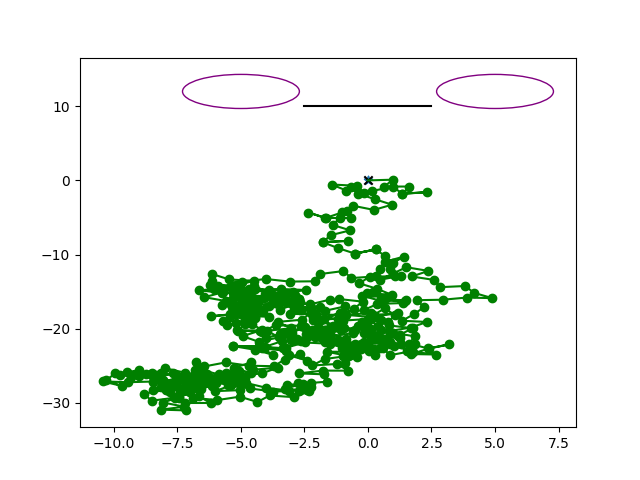
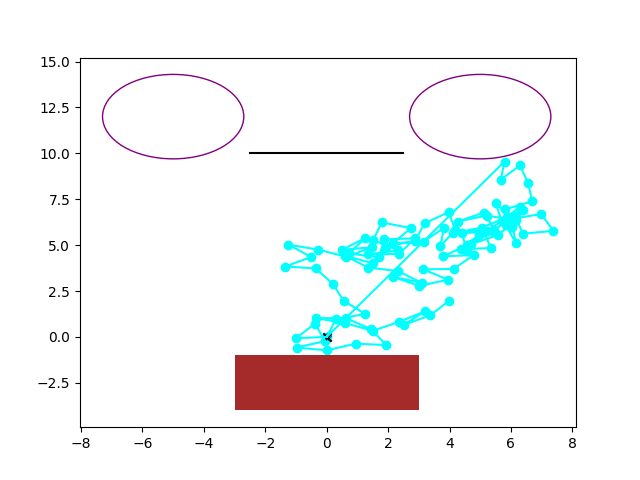
new obstacle: mud.py

diff --git a/Code/simulation.py b/Code/simulation.py
@@ -14,6 +14,7 @@ from typing import Tuple
 from walker import Walker, pull_push
 from barrier import Barrier
 from portal import Portal
+from mud import Mud
 import helper_functions
 import graph
 
@@ -22,7 +23,7 @@ Coordinates = Tuple[float,float]
 # The radius we check if a walker escapes
 ESCAPE_RAD = 10
 # The path prefix to any file I save
-DESTINATION_PATH = "../Results/"
+DESTINATION_PATH = "./Results/"
 
 class Simulation:
     """
@@ -44,6 +45,7 @@ class Simulation:
         self.__barriers = []
         self.__portals = []
         self.__iteration = 0
+        self.__mudspots = []
 
     def add_walker(self, walker: Walker) -> None:
         """
@@ -68,29 +70,43 @@ class Simulation:
         """
         self.__barriers.append(barrier)
 
+    def add_mud(self, mud: Mud) -> None:
+        """
+        Adds mud to the simulation
+        :param mus: The mud to add
+        """
+        self.__mudspots.append(mud)
+
     def step(self) -> int:
         """
         Preforms one step of the entire simulation.
         Returns the number of the step preformed.
         """
         for index, walker in enumerate(self.__walkers):
-            current_place = walker.get_location()
+            current_place = walker.location
             self.__location_log[index].append(current_place)
             next_place = walker.next_location()
             for barrier in self.__barriers:
                 while barrier.intersects(current_place, next_place):
                     # print(f"hit barrier on {self.__iteration}th iteration")
                     next_place = walker.next_location()
+            for mud in self.__mudspots:
+                if mud.point_in_area(current_place):
+                    next_place = (current_place[0] +
+                                  (next_place[0] - current_place[0]) * mud.get_lag(),
+                                  current_place[1] +
+                                  (next_place[1] - current_place[1]) * mud.get_lag())
             for portal in self.__portals:
                 if portal.inbounds(next_place):
                     # print(f"passed through portal on {self.__iteration}th iteration")
-                    next_place = portal.get_end()
+                    next_place = portal.endpoint
             walker.jump(next_place)
 
         self.__iteration += 1
         return self.__iteration
 
-    def get_log(self):
+    @property
+    def log(self):
         """
         returns the location log of a specific simulation
         """
@@ -131,15 +147,15 @@ class Simulation:
               or step < n + 1:
             step = stunt_double.step()
             for index, _ in enumerate(self.__walkers):
-                if stunt_double.get_log()[index][-1][0] ** 2 + \
-                      stunt_double.get_log()[index][-1][1] ** 2 > ESCAPE_RAD ** 2 \
+                if stunt_double.log[index][-1][0] ** 2 + \
+                      stunt_double.log[index][-1][1] ** 2 > ESCAPE_RAD ** 2 \
                     and info_dict[index]["escape"] is None:
                     info_dict[index]["escape"] = step
 
         # Runs through the locations the simulation passed through and gets the desired answers
         for index, _ in enumerate(self.__walkers):
-            self.__location_log[index].append(self.__walkers[index].get_location())
-            locations = list(stunt_double.get_log()[index][:n+1])
+            self.__location_log[index].append(self.__walkers[index].location)
+            locations = list(stunt_double.log[index][:n+1])
             info_dict[index]["distance_0"] = \
                 (locations[-1][0] ** 2 + locations[-1][1] ** 2) ** (1/2)
             x_values = [x[0] for x in locations]
@@ -218,7 +234,7 @@ class Simulation:
         # Saves the data constructed to the desired path
         helper_functions.save_to_json(data_for_all_walkers, f"{DESTINATION_PATH}{file_name}")
 
-    def plot_simulation(self, n: int, file_name: str = "walkerplot") -> None:
+    def plot_simulation(self, n: int, file_name: str = f"{DESTINATION_PATH}walkerplot") -> None:
         """
         Runs the simulation independently of the simulation_average method.
         Saves to the destination folder graphs of the locations visited by the walker
@@ -230,10 +246,11 @@ class Simulation:
         simulation_results = self.run_simulation(n,n)
         locations_dict = {index: simulation_results[index]["location_list"]
                            for index in simulation_results}
-        barriers = [barrier.get_points() for barrier in self.__barriers]
-        portals = [(portal.get_center(), portal.get_radius(), portal.get_end()) \
+        barriers = [barrier.points for barrier in self.__barriers]
+        portals = [(portal.center, portal.radius, portal.endpoint) \
                     for portal in self.__portals]
+        mudspots = [mud.properties for mud in self.__mudspots]
         for index, locations in locations_dict.items():
-            color = self.__walkers[index].get_color()
-            graph.show_walker_way(locations, barriers, portals,
-                                   DESTINATION_PATH+file_name+str(index), color)
+            color = self.__walkers[index].color
+            graph.show_walker_way(locations, (barriers, portals, mudspots),
+                                   file_name+str(index), color)

diff --git a/Code/graph.py b/Code/graph.py
@@ -14,26 +14,38 @@ import matplotlib.patches as patches
 
 Coordinates = Tuple[float,float]
 
-DESTINATION_PATH = "../Results/"
+DESTINATION_PATH = "./Results/"
 
 
-def show_walker_way(movement_log: list[Coordinates], barriers: list[tuple[Coordinates]], portals: list,
+def show_walker_way(movement_log: list[Coordinates], obstacles: Tuple,
                     file_to_save: str = f"{DESTINATION_PATH}scatterplot", color: str = "black") -> None:
     """
     A function that plots on a graph the path a waker went through.
     :param movement_log: a list containing ordered moves made by the walker
     :param file_to_save: the desired filepath in which to save the path taken by the walker
-    :param barriers: a list containing pairs of coordinates, between which each barrier is spread
-    :param portals: a list containing tuples of Coordinates (rep. centeres), floats (rep. radii) and Coordinates (rep. endpoints)
+    :param obstacles: tuple containing:
+                            A list containing pairs of coordinates, between which 
+                            each barrier is spread
+                            A list containing tuples of Coordinates (rep. centeres),
+                            floats (rep. radii) and Coordinates (rep. endpoints)
+                            A list containg bottom_left corners, widths and
+                            heights of mudspots
+    :param file_to_save: the name of the desired saving space for the plots
+    :param color: the color to trace the course of the walker
     """
     x = [i[0] for i in movement_log]
     y = [i[1] for i in movement_log]
+
+    barriers = obstacles[0]
+    portals = obstacles[1]
+    muds = obstacles[2]
 
     fig = plt.figure()
     ax = plt.axes()
 
     ax.scatter(x[1:], y[1:], color=color)
     ax.plot(x, y, color=color)
+
     for barrier in barriers:
         ax.plot([barrier[0][0],barrier[1][0]],[barrier[0][1],barrier[1][1]], color='black')
     endpoints_x = []
@@ -44,6 +56,11 @@ def show_walker_way(movement_log: list[Coordinates], barriers: list[tuple[Coordi
         endpoints_x.append(portal[2][0])
         endpoints_y.append(portal[2][1])
         ax.add_patch(circle)
+    for mud in muds:
+        rectangle = patches.Rectangle(*mud, facecolor="brown")
+        ax.add_patch(rectangle)
+
     ax.scatter(endpoints_x,endpoints_y, marker= "*")
     ax.scatter(0, 0, color='black', marker='x')
+    # fig.show()
     fig.savefig(file_to_save+".png")

diff --git a/Code/barrier.py b/Code/barrier.py
@@ -42,8 +42,8 @@ class Barrier:
         :param point_a: the first point.
         :param point_b: the second point.
         """
-        barrier_function = get_function(self.__point1,self.__point2)
-        line_function = get_function(point_a,point_b)
+        barrier_function = self.get_function(self.__point1,self.__point2)
+        line_function = self.get_function(point_a,point_b)
         if line_function[0] == barrier_function[0] or line_function == barrier_function:
             # line paralel to barrier
             return False
@@ -59,23 +59,24 @@ class Barrier:
         intersection_x = ((barrier_function[1] - line_function[1]) /
                            (line_function[0] - barrier_function[0]))
         return min(self.__point1[0],self.__point2[0]) <= intersection_x <= max(self.__point1[0],self.__point2[0])
-    
-    def get_points(self) -> tuple[Coordinates,Coordinates]:
+
+    @property
+    def points(self) -> tuple[Coordinates,Coordinates]:
         """
         returns the points between which a barrier is strung
         """
         return (self.__point1,self.__point2)
 
-
-def get_function(a, b) -> Tuple[float, float] | str:
-    """
-    recieves two points and returns a tuple containing the ratio between them and
-    the additional part to add to offset from the x axis as a tuple: (ratio, aditional)
-    :param a: the first point in the comparison
-    :param b: the second point in the comparison
-    """
-    if a[0] - b[0] == 0:
-        return "vertical"
-    ratio = (a[1] - b[1]) / (a[0] - b[0])
-    additional = a[1] - ratio * a[0]
-    return (ratio, additional)
+    @staticmethod
+    def get_function(a, b) -> Tuple[float, float] | str:
+        """
+        recieves two points and returns a tuple containing the ratio between them and
+        the additional part to add to offset from the x axis as a tuple: (ratio, aditional)
+        :param a: the first point in the comparison
+        :param b: the second point in the comparison
+        """
+        if a[0] - b[0] == 0:
+            return "vertical"
+        ratio = (a[1] - b[1]) / (a[0] - b[0])
+        additional = a[1] - ratio * a[0]
+        return (ratio, additional)

diff --git a/Code/mud.py b/Code/mud.py
@@ -1,0 +1,59 @@
+"""
+FILE : mud.py
+WRITER : Dori_Peleg , dori.plg , 207685306
+EXERCISE : intro2cs final_project 2024
+DESCRIPTION: A calss for mud objects within a simulation
+STUDENTS I DISCUSSED THE EXERCISE WITH:
+WEB PAGES I USED:
+NOTES: ...
+"""
+
+from typing import Tuple
+
+Coordinates = Tuple[float,float]
+
+SLOWDOWN = 0.6
+
+
+class Mud:
+    """
+    A class building the mud object in the random walker simulation
+    Mud pathces are rectangular areas where the movement of the walker is slowed down
+    """
+
+
+    def __init__(self, bottom_left: Coordinates, width: float, height: float) -> None:
+        """
+        initiates a new mudpatch object.
+        :param bottom_left: the mudpatch bottom left corner
+        :param width: the width of the mudpatch
+        :param height: the height of the mudpatch
+        """
+        self.__bottom_left = bottom_left
+        if width <= 0 or height <= 0:
+            raise ValueError("The width and height can only be positive")
+        self.__width = width
+        self.__height = height
+
+    def point_in_area(self, point: Coordinates) -> bool:
+        """
+        Checks wether a location is in the patch
+        :param point: the location to check
+        """
+        return (self.__bottom_left[0] <= point[0] <= (self.__bottom_left[0] + self.__width) and \
+                self.__bottom_left[1] <= point[1] <= (self.__bottom_left[1] + self.__height))
+
+    @property
+    def properties(self) -> Tuple[Coordinates, float, float]:
+        """
+        gets a tuple of the properties of the patch
+        (bottom_left, width, height)
+        """
+        return (self.__bottom_left, self.__width, self.__height)
+    
+    @staticmethod
+    def get_lag() -> float:
+        """
+        gets the slow down buffer of the mud patch
+        """
+        return SLOWDOWN

diff --git a/Code/walker.py b/Code/walker.py
@@ -111,23 +111,26 @@ class Walker:
             return True
         return False
 
-    def get_location(self) -> Coordinates:
+    @property
+    def location(self) -> Coordinates:
         """
         returns a Walker's location coordinates
         """
         return self.__location
 
-    def get_color(self) -> str:
+    @property
+    def color(self) -> str:
         """
         returns a walkers color, as a full name
         """
         return COLORS[self.__color]
 
-def get_move_dict() -> dict:
-    """
-    For UI reasons, returns the dictionary describing the walker class movement types
-    """
-    return MOVEMENTS
+    @staticmethod
+    def move_dict() -> dict:
+        """
+        For UI reasons, returns the dictionary describing the walker class movement types
+        """
+        return MOVEMENTS
 
 def pull_push(walkers: list[Walker], power: int = 1, gravity: bool = True) -> None:
     """

diff --git a/Code/main.py b/Code/main.py
@@ -8,9 +8,10 @@ WEB PAGES I USED:
 NOTES: ...
 """
 
-from walker import Walker, get_move_dict
+from walker import Walker
 from barrier import Barrier
 from portal import Portal
+from mud import Mud
 from simulation import Simulation
 
 
@@ -19,12 +20,12 @@ if __name__ == "__main__":
     letters = "ABCD"
     colors = "GCYR"
     for i in range(4):
-        simulation.add_walker(Walker(letters[i], color= colors[i]))
+        simulation.add_walker(Walker(letters[i], color= colors[1]))
     simulation.add_barrier(Barrier((0,10), 5, 0))
     simulation.add_portal(Portal((5,12),2.3))
     simulation.add_portal(Portal((-5,12),2.3))
-    # simulation.add_portal(Portal((6,5),4, (-3,-2)))
-    
-    simulation.plot_simulation(500)
+    simulation.add_mud(Mud((-3,-4),6,3))
+
+    simulation.plot_simulation(100)
     #simulation.simulation_average(5,500,10**5,"results.json")
     print("Done")

diff --git a/Code/portal.py b/Code/portal.py
@@ -42,19 +42,22 @@ class Portal:
         return ((self.__center[0] - location[0])**2 +
                 (self.__center[1] - location[1])**2) <= self.__radius**2
 
-    def get_end(self) -> Coordinates:
+    @property
+    def endpoint(self) -> Coordinates:
         """
         returns the endpoint of the portal
         """
         return self.__endpoint
 
-    def get_center(self) -> Coordinates:
+    @property
+    def center(self) -> Coordinates:
         """
         returns the center of the portal
         """
         return self.__center
 
-    def get_radius(self) -> float:
+    @property
+    def radius(self) -> float:
         """
         returns the radius of the pportal
         """
